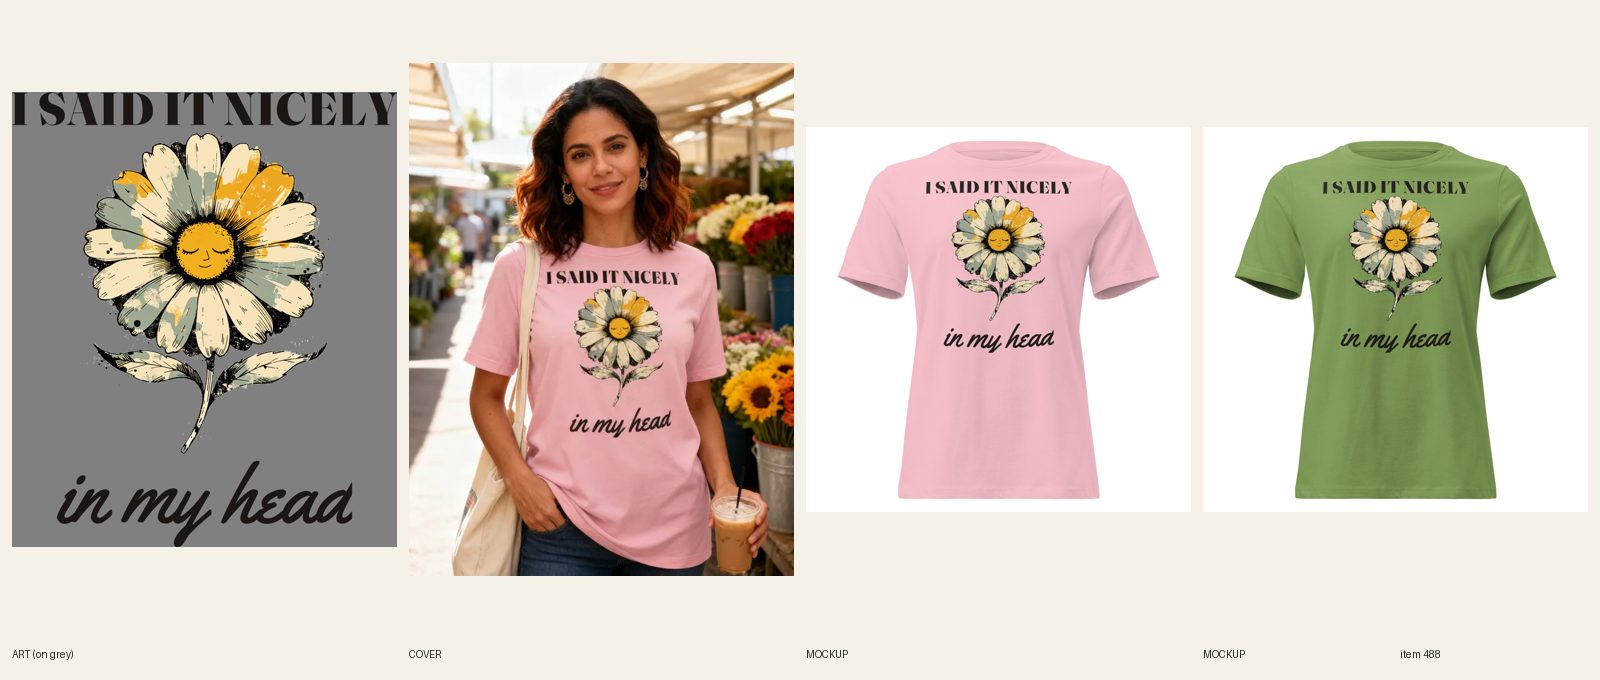
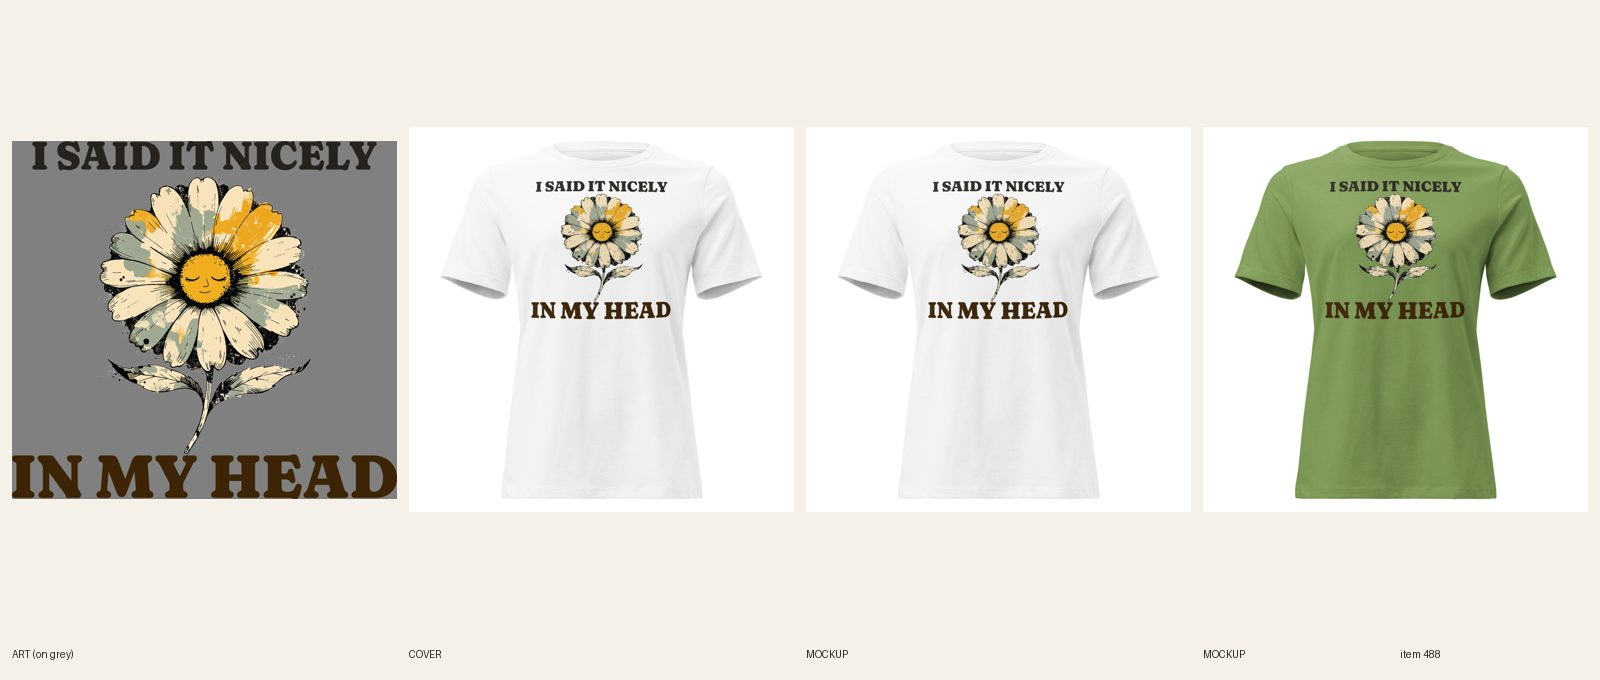
[B] review 488 Funny tee redo (type)

diff --git a/docs/pipeline/488-womens-tee-i-said-it-nicely-in-my-head.md b/docs/pipeline/488-womens-tee-i-said-it-nicely-in-my-head.md
@@ -1,4 +1,4 @@
-status: BUILDING [B] 2026-10-20 14:35 UTC
+status: REVIEW
 lane: B
 type: new
 id: 488
@@ -31,3 +31,4 @@ kd: 52
 - 2026-10-18 00:55 UTC builder [B]: full build. Art: 1 Recraft call, kept (smiling closed-eye daisy, mustard/cream/sage, worn texture). I SAID IT NICELY (Fraunces 900) and in my head (Yellowtail) set by compose-print, dark ink #1c1714, one file for light colors only (7 colors: White, Natural, Heather Stone, Athletic Heather, Pink, Leaf, Light Violet; no dark colors because the ink is dark; bold women's colors Pink + Leaf). Print 11.1 x 13.2 in, FW 1650 TOP 75. DRAFT gid 15364324000048, category aa-1-13-8, 42 variants (7 colors x S-3XL) $24.99, compareAtPrice null, tags per brief, keyword sarcasm shirt 2,900/KD52 in line one and meta, FAQ 6 x 40-60 words incl. Dec 8 (fit answer rewritten to 40+ words; the 6400 template's was short). Printful file 1088592921, sync 42/42. Mockups for all 7 colors + back attached and linked to each color's variants (R7.8 alts); phone-size read on Leaf (darkest/busiest): both lines legible. Cover: registry 812, 1 fal photo, both lines read, no hair/hand/strap over the print, no composite needed; alt starts "Woman". Audit-local PASS, astro build OK. fal $0.10. Not run: design-crops and variant-photo-audit (published products only; run after ACTIVE).
 - 2026-10-18 01:19 UTC director: LIVE. Restraint joke reads in 2 seconds, daisy art clean, market cover fits. ACTIVE + Online Store/Headless/Google & YouTube, audit PASS 0 warn.
 - 2026-10-18 17:22 UTC director: QUALITY RESET grade B (type only), REDO. The product stays ACTIVE (same handle, URL, title keyword). Keep the line "I SAID IT NICELY / in my head" and the art. 1. Type: Plain black bar on top, art, thin black script under art: the step-back layout; fails on dark garments. 2. Quality reset type bar (docs/backlog/quality-reset.md, 'The new bar'): headline at least 90% of the art width, heavy, colors pulled from the art; second line at least 45% of the headline's height, never a thin script on a dark or mid garment; use the lettering as a shape (arch, stacked lockup, words breaking into the art), not a plain bar above and a script line below; no font used on more than 1 in 6 of the last 30 designs. 3. New print file means a new cover per R6.10 and a fresh review sheet (R7.7). While quality-reset.md says PAUSED, only lane A builds, and only the samples step 2 names.
+- 2026-10-20 15:26 UTC builder [B]: REDO 488 (B grade, type only) done in place (stays ACTIVE; line and art kept; title unchanged; lettering sentence in the copy updated). Heavy type, no script: Fraunces 900 (soft, 0 of last 30). I SAID IT NICELY 2880 px black above, IN MY HEAD 3215 px dark brown #3d2406 below (punch 112% of the headline's width; first try used mustard, which sank into Leaf (contrast about 1.4), so it was re-lettered dark before any sync finished). Subject: daisy art 1800 px of 3215 px = 56% (7l); type about 1000 px of 2991 px print height (33%). One dark-ink file for all seven light and mid colors (White, Natural, Heather Stone, Athletic Heather, Pink, Leaf, Light Violet; light file logged; no dark colors offered). FW 1650 TOP 75. Verified 42/42 on the new file (no old id), back logo kept. 7 fronts replaced in place with new alt. Phone-size read OK on White, Heather Stone, Leaf and Light Violet. Cover: handle in retired-covers.json. Sheet docs/review/488.jpg from the composed print. fal $0.

diff --git a/docs/intake-log.md b/docs/intake-log.md
@@ -2,6 +2,7 @@ RUNNING director since 2026-10-20 15:21 UTC
 2026-10-20 15:25 UTC — [A] Builder run: #586 capybara at 51% of the lockup width, 30/30 synced. REVIEW. fal $0.
 RUNNING lane C since 2026-10-20 15:08 UTC
 2026-10-20 15:23 UTC — [A] Builder run: #258 crewneck gets #257's bigger trophy print, synced. REVIEW. fal $0.
+2026-10-20 15:26 UTC — [B] Builder run: redid #488 Women's Funny tee (type only: I SAID IT NICELY / IN MY HEAD heavy Fraunces, same daisy art, subject 56%, 42/42 synced). REVIEW. fal $0.
 2026-10-20 15:21 UTC — [A] Builder run: #257 trophy at 47% of the lockup width, tee synced. REVIEW. fal $0.
 2026-10-20 15:19 UTC — [A] Builder run: #617 PANICKED. re-lettered (heavy slab), 12/12 synced. REVIEW. fal $0.
 2026-10-20 15:18 UTC — [A] Builder run: #616 PANICKED. re-lettered (heavy slab), 42/42 synced. REVIEW. fal $0.
